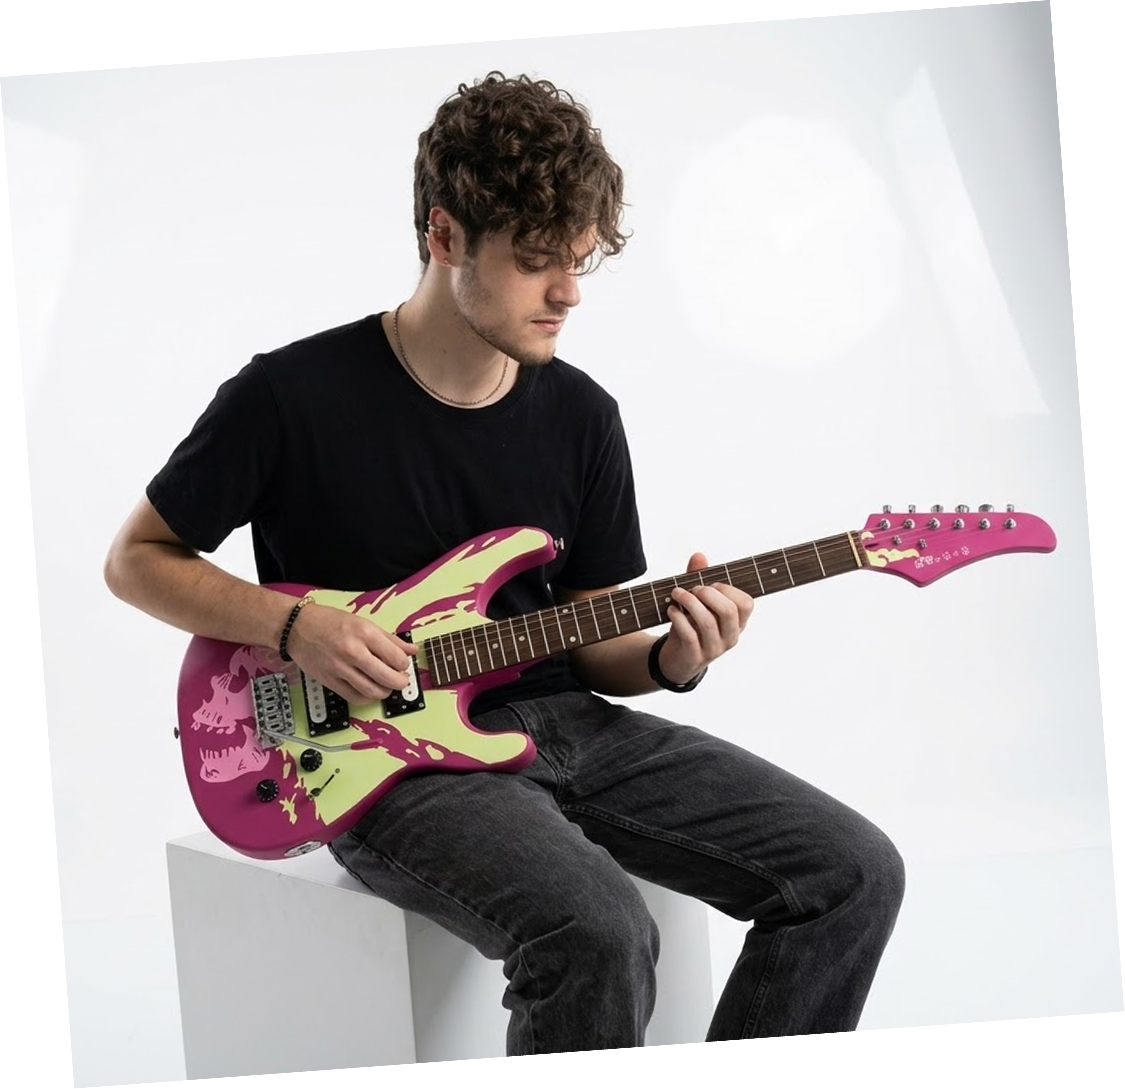
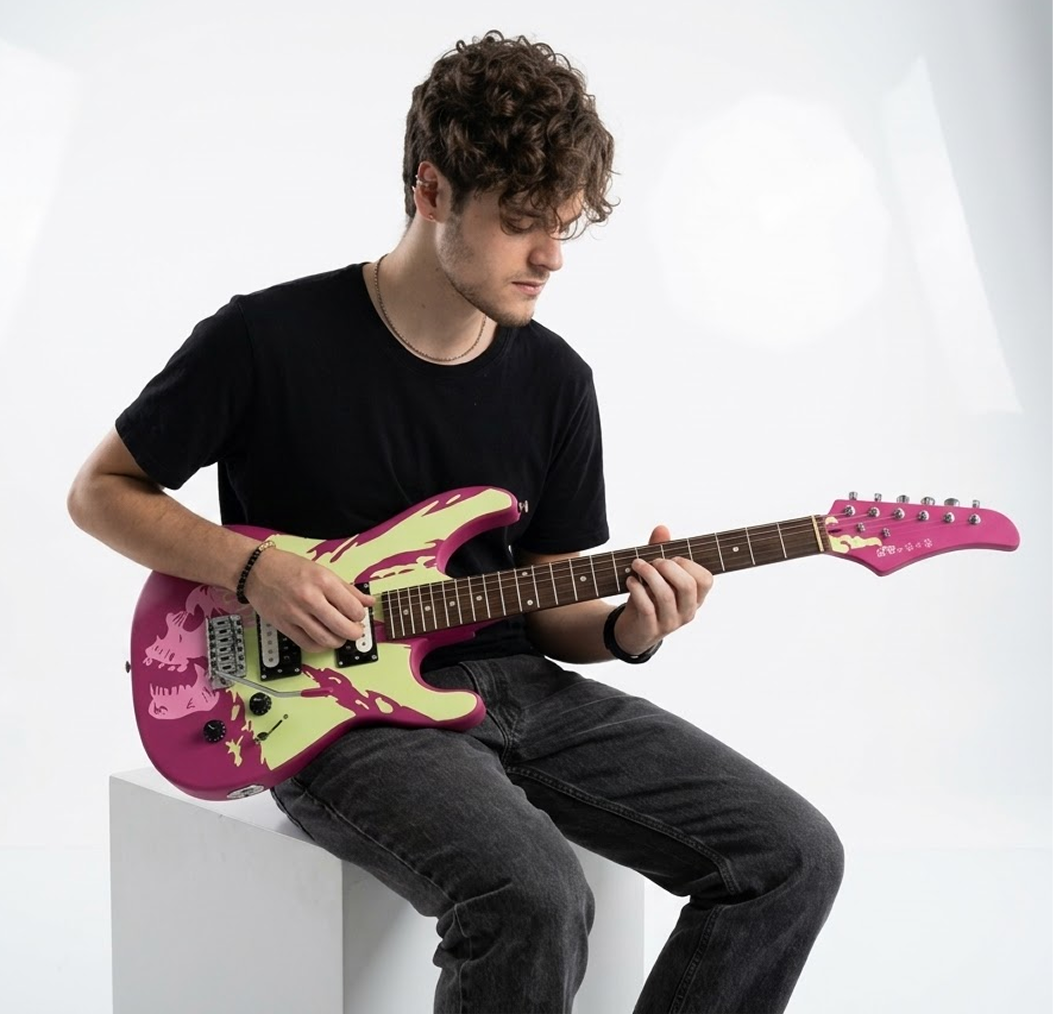
aaaaa

Changed region(s): [[0.0608, 0.0, 1.0, 1.0], [0.0, 0.9773, 0.0608, 1.0]]

diff --git a/yura/css/style.css b/yura/css/style.css
@@ -34,9 +34,32 @@ img {
   user-select: none;
 }
 
+html {
+  scroll-behavior: smooth;
+}
+
 html,
 body {
   height: 100%;
+}
+
+/* Brand-tinted text selection instead of the default browser blue. */
+::selection {
+  background: var(--pink);
+  color: #fff;
+}
+
+/* Consistent, on-brand keyboard focus ring for every interactive element. */
+:focus-visible {
+  outline: 2px solid var(--lime);
+  outline-offset: 3px;
+  border-radius: 4px;
+}
+
+@media (prefers-reduced-motion: reduce) {
+  html {
+    scroll-behavior: auto;
+  }
 }
 
 body {
@@ -203,7 +226,10 @@ body::after {
   padding: 0 clamp(18px, 2.03vw, 34px);
   border: 2px solid rgba(255, 255, 255, .95);
   border-radius: 999px;
-  background: rgba(8, 2, 6, .5);
+  background: rgba(8, 2, 6, .38);
+  -webkit-backdrop-filter: blur(16px) saturate(1.3);
+  backdrop-filter: blur(16px) saturate(1.3);
+  box-shadow: 0 10px 34px rgba(0, 0, 0, .38), inset 0 1px 0 rgba(255, 255, 255, .12);
 }
 
 .brand {
@@ -407,7 +433,7 @@ body::after {
 .hero-tagline {
   margin: 3.38cqw 0 0;
   font-family: var(--font-mono);
-  font-size: clamp(11px, 1.353cqw, 22px);
+  font-size: clamp(13px, 1.353cqw, 22px);
   line-height: 1.2;
   letter-spacing: .02em;
   color: var(--muted);
@@ -424,18 +450,25 @@ body::after {
   line-height: 1;
   letter-spacing: .01em;
   text-decoration: none;
-  transition: background .18s ease, transform .18s ease;
+  box-shadow: 0 8px 22px rgba(236, 30, 121, .32);
+  transition: background .18s ease, transform .18s ease, box-shadow .18s ease;
 }
 
 .hero-cta:hover {
   background: var(--pink-hover);
-  transform: translateY(-1px);
+  transform: translateY(-2px);
+  box-shadow: 0 12px 32px rgba(255, 61, 144, .5);
+}
+
+.hero-cta:active {
+  transform: translateY(0);
+  box-shadow: 0 6px 16px rgba(236, 30, 121, .34);
 }
 
 .hero-finance {
   margin: 1.6cqw 0 0;
   font-family: var(--font-mono);
-  font-size: clamp(9px, .913cqw, 15px);
+  font-size: clamp(12px, .913cqw, 15px);
   line-height: 1.2;
   color: var(--muted);
 }
@@ -617,6 +650,37 @@ body::after {
   position: relative;
 }
 
+/* Cards fade and rise into place, staggered, when the deck first scrolls in.
+   Hidden start state is only applied once JS flags the deck (.reveal), so the
+   deck stays fully visible without JS. */
+.deck.reveal .card {
+  opacity: 0;
+  transform: translateY(42px);
+}
+
+.deck.reveal.is-in .card {
+  animation: card-rise .7s cubic-bezier(.22, .68, .28, 1) both;
+}
+
+.deck.reveal.is-in .card:nth-child(1) {
+  animation-delay: .05s;
+}
+
+.deck.reveal.is-in .card:nth-child(2) {
+  animation-delay: .16s;
+}
+
+.deck.reveal.is-in .card:nth-child(3) {
+  animation-delay: .27s;
+}
+
+@keyframes card-rise {
+  to {
+    opacity: 1;
+    transform: translateY(0);
+  }
+}
+
 /* ---- light cards (photo + specs) ---- */
 
 .card-photo,
@@ -642,10 +706,18 @@ body::after {
 .photo-man {
   position: absolute;
   z-index: 0;
-  right: -8%;
-  bottom: -6%;
-  height: 176%;
+  right: -13%;
+  bottom: -3%;
+  top: auto;
+  left: auto;
+  height: 158%;
   width: auto;
+}
+
+/* Cards 2 & 3 sit their copy further in from the left than the feature card. */
+.card-photo .card-body,
+.card-specs .card-body {
+  padding-left: clamp(64px, 14%, 172px);
 }
 
 /* Card 3 — specs */
@@ -702,17 +774,17 @@ body::after {
 
 /* Body view: full guitar rotated upright, body resting at the bottom. */
 .spec-guitar-body {
-  width: 150cqh;
-  left: 54cqw;
-  top: 44cqh;
+  width: 192cqh;
+  left: 60cqw;
+  top: 50cqh;
   transform: translate(-50%, -50%) rotate(-90deg);
 }
 
 /* Headstock view: same image raised so the tuners sit at the top-right. */
 .spec-guitar-head {
-  width: 152cqh;
-  left: 90cqw;
-  top: 76cqh;
+  width: 192cqh;
+  left: 92cqw;
+  top: 84cqh;
   transform: translate(-50%, -50%) rotate(-90deg);
 }
 
@@ -970,7 +1042,12 @@ body::after {
   border-radius: 999px;
   background: rgba(255, 255, 255, .22);
   cursor: pointer;
-  transition: background .25s ease, width .25s ease;
+  transition: background .25s ease, width .25s ease, transform .2s ease;
+}
+
+.dot:hover {
+  background: rgba(255, 255, 255, .5);
+  transform: scaleY(1.25);
 }
 
 .dot.is-active {
@@ -983,13 +1060,21 @@ body::after {
     flex-basis: 88vw;
     aspect-ratio: auto;
     min-height: 78vh;
+    /* The 125px desktop radius eats into copy on a tall, narrow card and
+       clipped the first glyph — a tighter radius keeps text clear. */
+    border-radius: 44px;
   }
 
   .card-body {
     position: relative;
     width: 100%;
     justify-content: flex-start;
-    padding: 30px 24px 0;
+    padding: 40px 28px 0;
+  }
+
+  .card-photo .card-body,
+  .card-specs .card-body {
+    padding-left: 28px;
   }
 
   .card-media {
@@ -1021,6 +1106,13 @@ body::after {
 @media (prefers-reduced-motion: reduce) {
   .deck {
     scroll-behavior: auto;
+  }
+
+  .deck.reveal .card,
+  .deck.reveal.is-in .card {
+    opacity: 1;
+    transform: none;
+    animation: none;
   }
 
   .card-feature:has(.glow-check:checked) .card-glow {

diff --git a/yura/js/showcase.js b/yura/js/showcase.js
@@ -31,6 +31,23 @@
   const deck = document.querySelector('.deck');
   if (!deck) return;
 
+  // Stagger the cards into view the first time the deck is reached (mirrors the
+  // header's slide-in). Start state lives behind .reveal so it degrades to
+  // fully-visible without JS.
+  deck.classList.add('reveal');
+  const deckIO = new IntersectionObserver(
+    (entries, obs) => {
+      entries.forEach((entry) => {
+        if (entry.isIntersecting) {
+          deck.classList.add('is-in');
+          obs.disconnect();
+        }
+      });
+    },
+    { threshold: 0.2 }
+  );
+  deckIO.observe(deck);
+
   const cards = Array.from(deck.querySelectorAll('.card'));
   const dots = Array.from(document.querySelectorAll('.dot'));
   if (!cards.length || !dots.length) return;
